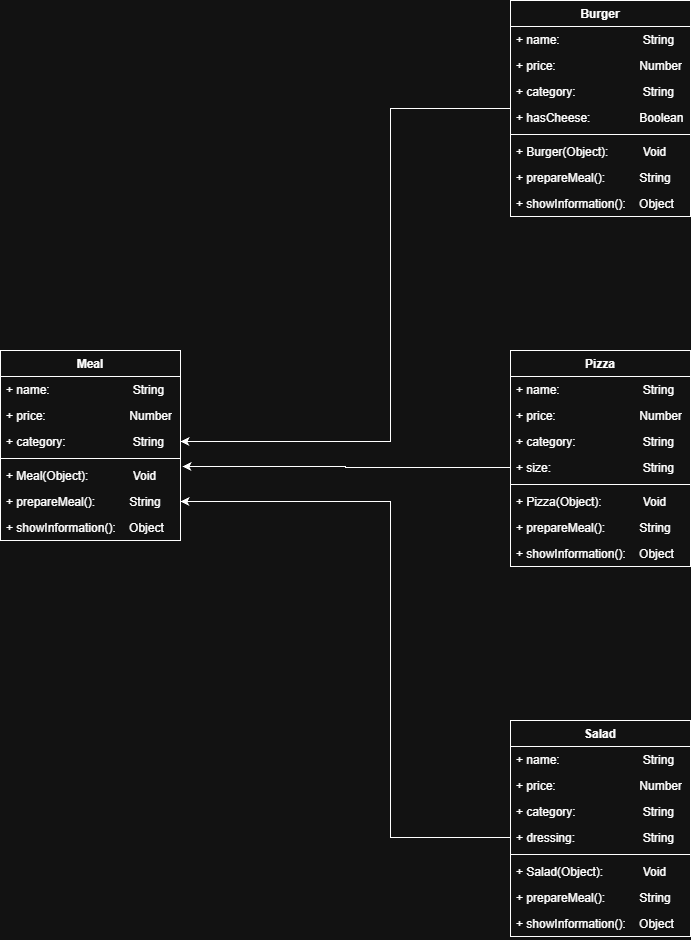
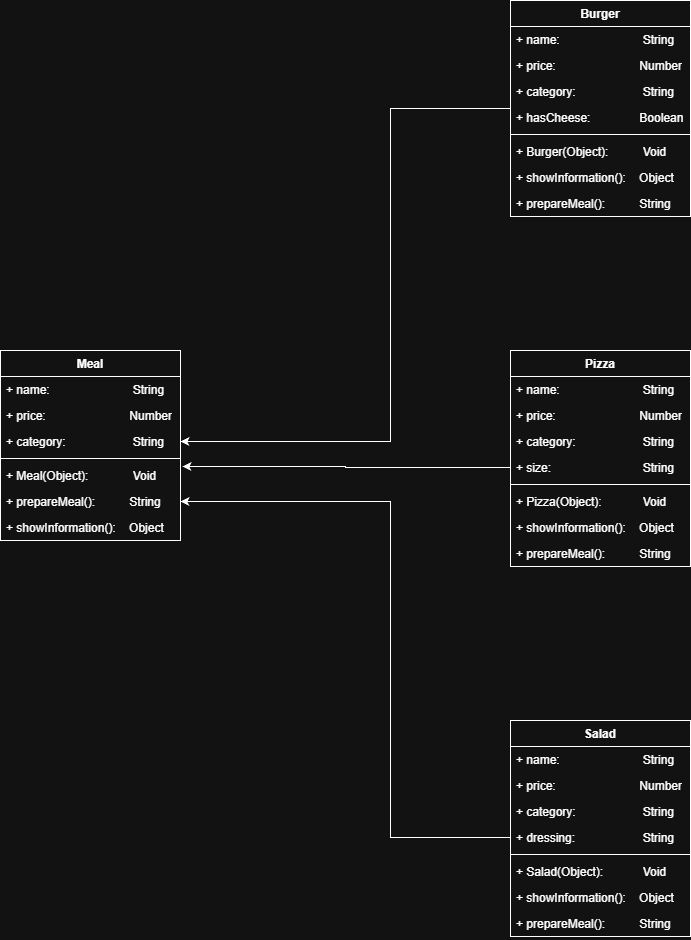
updates

Changed region(s): [[0.7598, 0.5553, 0.9725, 0.617], [0.7598, 0.1851, 0.9725, 0.2468], [0.7598, 0.9255, 0.9725, 0.9872]]

diff --git a/class-85/challenge/problem-87.js b/class-85/challenge/problem-87.js
@@ -11,11 +11,9 @@ class Meal{
     }
 
     showInfomation() {
-        return{
-            name: this.name,
-            price: this.price,
-            category: this.category
-        };
+           console.log(`Name: ${this.name}`);
+           console.log(`Price: $ ${this.price} USD`);
+           console.log(`Category: ${this.category}`);  
     }
 
     prepareMeal() {
@@ -34,6 +32,12 @@ class Burger extends Meal {
         this.hasCheese = hasCheese;
     }
 
+    showInfomation() {
+        super.showInfomation();
+        console.log(`Has Cheese: ${this.hasCheese}`);
+    }
+
+
     prepareMeal() {
         return `Grilling the burger and preparing ingredients.`;
     }
@@ -47,6 +51,11 @@ class Pizza extends Meal {
         this.size = size;
     }
 
+    showInfomation() {
+        super.showInfomation();
+        console.log(`Size: ${this.size}`);
+    }
+
     prepareMeal() {
         return `Baking the pizza in the oven.`;
     }
@@ -58,6 +67,11 @@ class Salad extends Meal {
     constructor(name, price, category, dressing) {
         super(name, price, category);
         this.dressing = dressing;
+    }
+
+    showInfomation() {
+        super.showInfomation();
+        console.log(`Dressing: ${this.dressing}`);
     }
 
      prepareMeal() {
@@ -95,7 +109,7 @@ const menu = [burger, pizza, salad];
 //Loop to iterate through array and print results.
 menu.forEach((meal) => {
     console.log("=================================================");
-    console.log(meal);
+    meal.showInfomation();
     console.log(meal.prepareMeal());
     console.log("=================================================");
 });
